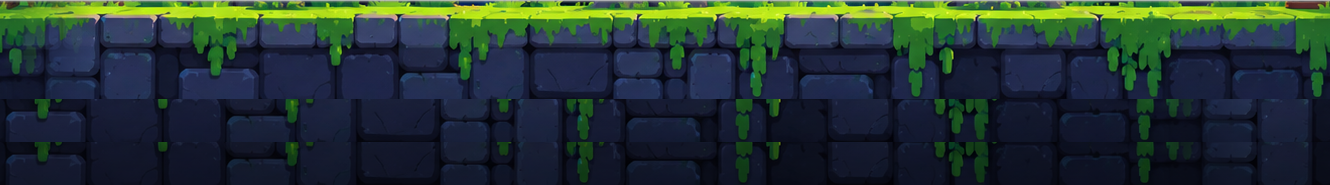
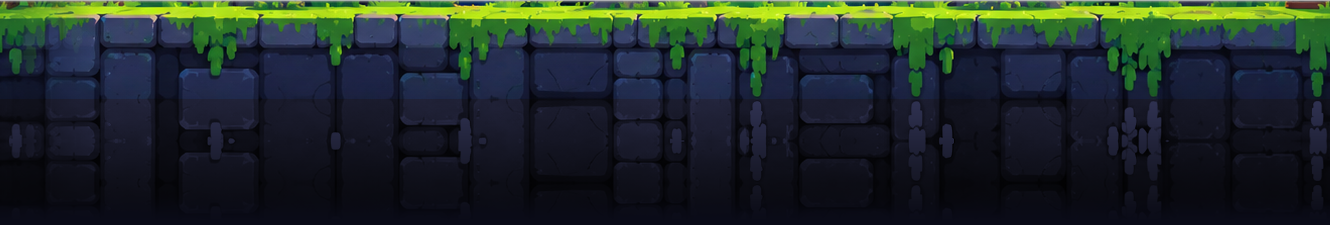
Neues Design: ruhigeres Spielfeld, Ruinen nach hinten, Mauer ohne Kante
- Torbögen, Laternengalgen und Mauerreste stehen jetzt in einer eigenen, langsamer
  mitlaufenden Ebene hinter dem Rasen: abgedunkelt, kleiner, Laternen schwächer, Sockel
  hinter einer dunklen Buschreihe. Sie wirken nicht mehr wie Objekte zum Anfassen.
  Kiste, Fass, Zaun, Pilz und kleine Steine/Kristalle vorn entfallen.
- Deutlich weniger Pflanzen: nur vereinzelte kurze Grasbüschel an der Rasenkante, keine
  Halme an der Vorderkante und auf den Plattformen, Vordergrund-Laub nur ganz außen,
  keine großen Glühwürmchen vor der Kamera, weniger Staubteilchen.
- Mauer: unter dem Bildausschnitt gespiegelte Quaderreihen ohne Moos, die gleichmäßig
  in die Farbe der Tiefe auslaufen – keine harte Kante mehr am unteren Bildrand.

diff --git a/tools/newdesign/build.js b/tools/newdesign/build.js
@@ -386,12 +386,12 @@ async function ground() {
     const X0 = 560, X1 = 1980, Y0 = 694, Y1 = 793, FADE = 90;
     const { data, info } = await sharp(path.join(SRC, F.scene)).removeAlpha().raw().toBuffer({ resolveWithObject: true });
     const SW = info.width;
-    const L = X1 - X0 - FADE, extra = [[750, 793, 0.78], [750, 793, 0.6]];
-    const H = (Y1 - Y0) + extra.reduce((s, e) => s + e[1] - e[0], 0);
-    const W = L;
+    // unter dem Bild geht die Mauer mit wiederholten Quaderreihen weiter (Moos dort zu Stein), und das Ganze
+    // dunkelt nach unten gleichmäßig ab bis in die Farbe der Tiefe: keine sichtbare Kante am unteren Bildrand
+    const L = X1 - X0 - FADE, EXTRA = 42 * 3, DEEP = [10, 11, 24];
+    const H = (Y1 - Y0) + EXTRA, W = L;
     const out = Buffer.alloc(W * H * 4);
     const px = (x, y) => { const i = (y * SW + x) * 3; return [data[i], data[i + 1], data[i + 2]]; };
-    const put = (x, y, c, k) => { const o = (y * W + x) * 4; out[o] = c[0] * k; out[o + 1] = c[1] * k; out[o + 2] = c[2] * k; out[o + 3] = 255; };
     const sample = (x, y) => {
         // die ersten FADE Spalten mischen sich mit dem Ende des Streifens → nahtlos kachelbar
         const a = px(X0 + x, y);
@@ -399,9 +399,30 @@ async function ground() {
         const b = px(X0 + L + x, y), t = x / FADE;
         return [a[0] * t + b[0] * (1 - t), a[1] * t + b[1] * (1 - t), a[2] * t + b[2] * (1 - t)];
     };
-    let row = 0;
-    for (let y = Y0; y < Y1; y++, row++) for (let x = 0; x < W; x++) put(x, row, sample(x, y), 1);
-    for (const [a, b, k] of extra) for (let y = a; y < b; y++, row++) for (let x = 0; x < W; x++) put(x, row, sample((x + 173) % W, y), k * (1 - 0.15 * (y - a) / (b - a)));
+    // unterhalb: alles in Steinfarbe (Moos wird zu Stein, zu helle Stellen gedeckelt)
+    const stone = c => {
+        const l = Math.min(70, 0.3 * c[0] + 0.59 * c[1] + 0.11 * c[2]);
+        return [l * 0.78, l * 0.82, l * 1.35];
+    };
+    const smooth = t => t * t * (3 - 2 * t);
+    for (let row = 0; row < H; row++) {
+        const fromSrc = row < Y1 - Y0;
+        // gespiegelt an der Unterkante des Bildes, dann hin und her: keine Naht zwischen den Wiederholungen
+        const m = row - (Y1 - Y0), t = ((m % 84) + 84) % 84;
+        const sy = fromSrc ? Y0 + row : t < 42 ? Y1 - 1 - t : Y1 - 42 + (t - 42);
+        const shift = 0;
+        // Abdunkeln ab der zweiten Quaderreihe, die letzten Zeilen laufen in DEEP aus
+        const dark = 1 - 0.72 * smooth(Math.max(0, Math.min(1, (row - 50) / (H - 50))));
+        const toDeep = smooth(Math.max(0, (row - (H - 36)) / 36));
+        for (let x = 0; x < W; x++) {
+            let c = sample((x + shift) % W, sy);
+            if (!fromSrc) c = stone(c);
+            const o = (row * W + x) * 4;
+            for (let k = 0; k < 3; k++) out[o + k] = Math.round(c[k] * dark * (1 - toDeep) + DEEP[k] * toDeep);
+            out[o + 3] = 255;
+        }
+    }
+    manifest.groundDeep = DEEP.map(v => +(v / 255).toFixed(4));
     // oberste Pixelreihen weich ausblenden (die Grashalme darüber verdecken die Kante)
     for (let y = 0; y < 3; y++) for (let x = 0; x < W; x++) {
         const o = (y * W + x) * 4, a = [0.35, 0.7, 0.9][y];

diff --git a/SoccerFight/Assets/Scripts/World/WorldEnvironment.cs b/SoccerFight/Assets/Scripts/World/WorldEnvironment.cs
@@ -15,9 +15,9 @@ namespace SoccerFight
     {
         struct Layer { public Transform t; public Vector2 basePos; public float px, py; }
         struct Fog { public SpriteRenderer sr; public float speed, offset, baseX; }
-        struct Firefly { public SpriteRenderer sr; public Vector2 home; public float phase, fx, fy, ax, ay, parallax; }
+        struct Firefly { public SpriteRenderer sr; public Vector2 home; public float phase, fx, fy, ax, ay; }
         struct Blink { public SpriteRenderer sr; public Color color; public float baseA, phase, speed, depth; }
-        struct Lamp { public SpriteRenderer glow, halo; public float seed; }
+        struct Lamp { public SpriteRenderer glow, halo; public float seed, strength; }
 
         readonly List<Layer> layers = new List<Layer>();
         readonly List<Fog> fogs = new List<Fog>();
@@ -29,6 +29,8 @@ namespace SoccerFight
         CameraRig cam;
         System.Random rng;
         float moteTimer;
+        Color propTint = Color.white;   // Ruinenreihe: abgedunkelt
+        float lampStrength = 1f;
 
         public Transform Root => root;
         public PlatformViews Platforms { get; private set; }
@@ -74,7 +76,7 @@ namespace SoccerFight
 
         SpriteRenderer Put(Transform parent, string sprite, Vector2 pos, float scale, int order, bool flip = false, Color? tint = null)
         {
-            var sr = Art.MakeSprite(sprite, parent, DesignArt.Get(sprite), order, DesignArt.SpriteMat, tint ?? Color.white);
+            var sr = Art.MakeSprite(sprite, parent, DesignArt.Get(sprite), order, DesignArt.SpriteMat, tint ?? propTint);
             sr.transform.localPosition = pos;
             sr.transform.localScale = new Vector3(flip ? -scale : scale, scale, 1f);
             return sr;
@@ -177,40 +179,35 @@ namespace SoccerFight
 
         void BuildRuins()
         {
-            var g = Group("Ruins");
-            const float Y = 0.08f;
+            // Rahmenbäume an beiden Arenaenden (weltfest, markieren das Spielfeldende)
+            var trees = Group("Frame Trees");
+            Put(trees, "tree_big", new Vector2(-17.7f, -0.05f), 1.6f, -300);
+            Put(trees, "tree_big", new Vector2(17.9f, -0.05f), 1.6f, -300, true);
 
-            // Rahmenbäume an beiden Arenaenden
-            Put(g, "tree_big", new Vector2(-17.7f, -0.05f), 1.6f, -345);
-            Put(g, "tree_big", new Vector2(17.9f, -0.05f), 1.6f, -345, true);
+            // Torbögen, Laternen und Mauerreste stehen ein Stück hinter dem Rasen: eigene, langsamer
+            // mitlaufende Ebene, im Mondlicht abgedunkelt und kleiner — Kulisse, nichts zum Anfassen
+            var g = AddLayer("Ruin Row", new Vector2(0f, 0.3f), 0.22f, 0.18f);
+            const float Y = 0f;
+            propTint = new Color(0.55f, 0.62f, 0.82f);
+            lampStrength = 0.6f;
+            LampPost(g, "lantern_post_a", new Vector2(-15.2f, Y), 0.75f, false, new Vector2(0.72f, 0.3f));
+            Put(g, "wall_d", new Vector2(-11.8f, Y), 0.65f, -360);
+            ArchWithLamp(g, new Vector2(-7.4f, Y), 0.7f, false);
+            Put(g, "pillar_broken", new Vector2(-4.2f, Y), 0.6f, -360);
+            Crystal(g, "crystal_mid", new Vector2(-3.1f, Y), 0.4f, -358);
+            ArchWithLamp(g, new Vector2(6.5f, Y), 0.7f, true);
+            Put(g, "block_e", new Vector2(9.4f, Y), 0.6f, -358);
+            Put(g, "wall_c", new Vector2(11.8f, Y), 0.65f, -360);
+            LampPost(g, "lantern_post_a", new Vector2(15.2f, Y), 0.75f, true, new Vector2(0.72f, 0.3f));
+            propTint = Color.white;
+            lampStrength = 1f;
 
-            // links: Laternengalgen vor dem Rahmenbaum, Mauerrest, Torbogen mit Laterne zwischen den Plattformen
-            LampPost(g, "lantern_post_a", new Vector2(-15.5f, Y), 1f, false, new Vector2(0.72f, 0.3f));
-            Crystal(g, "crystal_small", new Vector2(-14.3f, Y), 0.55f, -324);
-            Put(g, "wall_d", new Vector2(-11.6f, Y), 0.8f, -330);
-            Put(g, "block_f", new Vector2(-9.7f, Y), 0.85f, -328);
-            ArchWithLamp(g, new Vector2(-7.4f, Y), 0.9f, false);
-            Put(g, "rock_a", new Vector2(-5.5f, Y), 0.75f, -326);
-            Put(g, "pillar_broken", new Vector2(-4.1f, Y), 0.75f, -330);
-            Crystal(g, "crystal_mid", new Vector2(-2.9f, Y), 0.5f, -327);
-            Put(g, "crate", new Vector2(-1.55f, Y), 0.55f, -325);
-            Put(g, "barrel", new Vector2(-0.95f, Y), 0.55f, -324);
-            Put(g, "fence", new Vector2(1.3f, Y), 0.85f, -329);
-            Put(g, "mushroom_blue", new Vector2(2.7f, Y), 0.42f, -325);
-            // rechts: Torbogen mit Laterne, Steine, Mauerrest, Laternengalgen vor dem Rahmenbaum
-            ArchWithLamp(g, new Vector2(6.5f, Y), 0.9f, true);
-            Put(g, "block_e", new Vector2(8.6f, Y), 0.8f, -328);
-            Put(g, "rock_d", new Vector2(10.2f, Y), 0.75f, -326);
-            Put(g, "wall_c", new Vector2(12.1f, Y), 0.85f, -330);
-            Put(g, "wall_a", new Vector2(14.2f, Y), 0.75f, -331);
-            LampPost(g, "lantern_post_a", new Vector2(15.6f, Y), 1f, true, new Vector2(0.72f, 0.3f));
-
-            // Büsche und Farne zwischen den Ruinen
-            var plants = new FoliageLayer();
-            var bushes = DesignArt.Plants("bush_a", "bush_b", "bush_c", "bush_d", "fern", "grass_a");
-            for (float x = -19f; x < 19f; x += Range(1.6f, 3.2f))
-                plants.Add(Pick(bushes), new Vector2(x, Range(0.08f, 0.14f)), Range(0.55f, 0.85f), Color.white, 1f, 0.4f, R() > 0.5f);
-            plants.Build(g, "Ruin Plants", -320, DesignArt.PlantMaterial("SF Design Ruin Plants", 0.8f));
+            // dunkle Buschreihe am Fuß der Ruinen: verdeckt die Sockel, auch wenn die Kamera steigt
+            var bushes = new FoliageLayer();
+            var kinds = DesignArt.Plants("bush_a", "bush_b", "bush_c", "bush_d");
+            for (float x = -24f; x < 24f; x += Range(0.9f, 1.7f))
+                bushes.Add(Pick(kinds), new Vector2(x, Range(-0.35f, -0.1f)), Range(0.8f, 1.15f), new Color(0.26f, 0.4f, 0.48f), 1f, 0f, R() > 0.5f);
+            bushes.Build(g, "Ruin Bushes", -320, DesignArt.PlantMaterial("SF Design Ruin Bushes", 0.5f));
         }
 
         void ArchWithLamp(Transform parent, Vector2 pos, float scale, bool flip)
@@ -223,7 +220,7 @@ namespace SoccerFight
             var lampSprite = Sprite.Create(t, rect, new Vector2(0.48f, 1f), src.pixelsPerUnit, 0, SpriteMeshType.FullRect);
             float archH = arch.sprite.bounds.size.y * scale, lampScale = scale * 0.8f;
             Vector2 hook = pos + new Vector2(0f, archH * 0.66f);
-            var lamp = Art.MakeSprite("Arch Lantern", parent, lampSprite, -331);
+            var lamp = Art.MakeSprite("Arch Lantern", parent, lampSprite, -331, DesignArt.SpriteMat, Color.Lerp(propTint, Color.white, 0.5f));
             lamp.transform.localPosition = hook;
             lamp.transform.localScale = Vector3.one * lampScale;
             AddLamp(parent, hook - new Vector2(0f, t.height * 0.53f / src.pixelsPerUnit * lampScale), 1.25f);
@@ -245,7 +242,7 @@ namespace SoccerFight
             var glow = Art.MakeSprite("Lamp Glow", parent, Art.SoftGlow, -322, Art.SpriteGlowMat, LampColor.WithAlpha(0.35f));
             glow.transform.localPosition = at;
             glow.transform.localScale = Vector3.one * 0.55f * size;
-            lamps.Add(new Lamp { glow = glow, halo = halo, seed = R() * 50f });
+            lamps.Add(new Lamp { glow = glow, halo = halo, seed = R() * 50f, strength = lampStrength });
         }
 
         void Crystal(Transform parent, string sprite, Vector2 pos, float scale, int order)
@@ -265,26 +262,20 @@ namespace SoccerFight
             wall.size = new Vector2(60f, wall.sprite.bounds.size.y);
             wall.transform.localPosition = new Vector3(-30f, 0f, 0f);
             float wallBottom = -wall.sprite.pivot.y / wall.sprite.pixelsPerUnit;
-            var deep = Art.MakeSprite("Deep", ground, DesignArt.Block, -111, DesignArt.SpriteMat, new Color(0.03f, 0.035f, 0.07f));
+            var deep = Art.MakeSprite("Deep", ground, DesignArt.Block, -111, DesignArt.SpriteMat, DesignArt.GroundDeep);
             deep.transform.localPosition = new Vector3(0f, wallBottom - 4f + 0.02f, 0f);
             deep.transform.localScale = new Vector3(60f, 8f, 1f);
 
-            // Gras und Farne an der Hinterkante (hinter den Spielern), ab und zu ein Pilz oder Klee
+            // nur vereinzelte, kurze Grasbüschel an der Hinterkante: das Spielfeld bleibt ruhig und lesbar
             var back = new FoliageLayer();
-            var grass = DesignArt.Plants("grass_b", "grass_c", "grass_d", "grass_e", "grass_f");
-            var extra = DesignArt.Plants("fern", "clover", "grass_a", "mushroom_green");
-            for (float x = -26f; x < 26f; x += Range(0.35f, 0.8f))
+            var grass = DesignArt.Plants("grass_b", "grass_d", "grass_e", "grass_f");
+            var extra = DesignArt.Plants("fern", "grass_a");
+            for (float x = -26f; x < 26f; x += Range(0.9f, 2.2f))
             {
-                bool big = R() < 0.14f;
-                back.Add(big ? Pick(extra) : Pick(grass), new Vector2(x, Range(0.04f, 0.09f)), big ? Range(0.4f, 0.6f) : Range(0.32f, 0.55f), Color.white, 1f, 1f, R() > 0.5f);
+                bool big = R() < 0.12f;
+                back.Add(big ? Pick(extra) : Pick(grass), new Vector2(x, Range(0.05f, 0.09f)), big ? Range(0.32f, 0.42f) : Range(0.24f, 0.36f), Color.white, 1f, 1f, R() > 0.5f);
             }
             back.Build(ground, "Back Grass", -95, DesignArt.PlantMaterial("SF Design Pitch Grass", 1f));
-
-            // ein paar kleine Halme vorn an der Kante
-            var lip = new FoliageLayer();
-            for (float x = -26f; x < 26f; x += Range(0.8f, 2.2f))
-                lip.Add(Pick(grass), new Vector2(x, Range(-0.1f, -0.06f)), Range(0.22f, 0.32f), Color.white, 1f, 0.7f, R() > 0.5f);
-            lip.Build(ground, "Lip Grass", 150, DesignArt.PlantMaterial("SF Design Lip Grass", 1f));
 
             LeftPortal = BuildGoal(ground, -GoalX, 1f);
             RightPortal = BuildGoal(ground, GoalX, -1f);
@@ -323,11 +314,11 @@ namespace SoccerFight
             var fg = AddLayer("Foreground", Vector2.zero, -0.35f, -0.2f);
             var leaves = new FoliageLayer();
             var kinds = DesignArt.Plants("bush_a", "bush_b", "bush_c", "fern");
-            float[] xs = { -26f, -19.5f, -13f, 13f, 19.5f, 26f };
+            float[] xs = { -25f, 25f };   // nur ganz außen, damit nichts vor dem Spielgeschehen hängt
             foreach (float x in xs)
-                for (int k = 0; k < 2; k++)
+                for (int k = 0; k < 1; k++)
                     leaves.Add(Pick(kinds), new Vector2(x + Range(-1.2f, 1.2f), Range(-2.9f, -2.6f)), Range(1.8f, 2.4f),
-                        new Color(0.1f, 0.2f, 0.24f), 1f, 0f, R() > 0.5f, Range(-8f, 8f));
+                        new Color(0.06f, 0.12f, 0.15f), 1f, 0f, R() > 0.5f, Range(-8f, 8f));
             leaves.Build(fg, "Foreground Leaves", 600, DesignArt.PlantMaterial("SF Design Foreground", 0.35f));
         }
 
@@ -335,19 +326,18 @@ namespace SoccerFight
 
         void BuildFireflies()
         {
-            for (int i = 0; i < 38; i++)
+            // nur hinter dem Spielgeschehen, keine großen unscharfen direkt vor der Kamera
+            for (int i = 0; i < 26; i++)
             {
-                bool front = i < 5;
-                var sr = Art.MakeSprite("Firefly", root, Art.SoftGlow, front ? 610 : -300, Art.SpriteGlowMat, FireflyColor.WithAlpha(0f));
-                sr.transform.localScale = Vector3.one * (front ? Range(0.3f, 0.5f) : Range(0.1f, 0.2f));
+                var sr = Art.MakeSprite("Firefly", root, Art.SoftGlow, -300, Art.SpriteGlowMat, FireflyColor.WithAlpha(0f));
+                sr.transform.localScale = Vector3.one * Range(0.1f, 0.2f);
                 fireflies.Add(new Firefly
                 {
                     sr = sr,
-                    home = new Vector2(Range(-20f, 20f), front ? Range(-1.2f, 2.5f) : Range(0.4f, 5.5f)),
+                    home = new Vector2(Range(-20f, 20f), Range(0.4f, 5.5f)),
                     phase = R() * 50f,
                     fx = Range(0.12f, 0.3f), fy = Range(0.15f, 0.35f),
                     ax = Range(0.6f, 1.8f), ay = Range(0.3f, 0.9f),
-                    parallax = front ? -0.25f : 0f
                 });
             }
         }
@@ -425,8 +415,8 @@ namespace SoccerFight
             {
                 var l = lamps[i];
                 float flicker = 0.8f + 0.2f * Mathf.PerlinNoise(time * 3.3f, l.seed) + 0.05f * Mathf.Sin(time * 19f + l.seed);
-                l.glow.color = LampColor.WithAlpha(0.35f * flicker);
-                l.halo.color = LampColor.WithAlpha(0.2f * flicker);
+                l.glow.color = LampColor.WithAlpha(0.35f * flicker * l.strength);
+                l.halo.color = LampColor.WithAlpha(0.2f * flicker * l.strength);
             }
 
             Platforms.Update(dt, time, Wind);
@@ -437,10 +427,9 @@ namespace SoccerFight
                 float t = time + f.phase;
                 Vector2 pos = f.home + new Vector2(Mathf.Sin(t * f.fx * MathUtil.Tau) * f.ax + Mathf.Sin(t * 0.37f) * 0.3f,
                     Mathf.Sin(t * f.fy * MathUtil.Tau + 1.3f) * f.ay);
-                pos.x += c.x * f.parallax;
                 float blink = Mathf.Clamp01(0.35f + 0.65f * Mathf.Sin(t * 1.1f + f.phase * 3f)) * (0.6f + 0.4f * Mathf.PerlinNoise(t * 2f, f.phase));
                 f.sr.transform.localPosition = pos;
-                f.sr.color = FireflyColor.WithAlpha(blink * (f.parallax < 0f ? 0.3f : 0.75f));
+                f.sr.color = FireflyColor.WithAlpha(blink * 0.75f);
             }
 
             // Staub und Pollen im Mondlicht
@@ -448,11 +437,11 @@ namespace SoccerFight
             moteTimer -= dt;
             while (moteTimer <= 0f && fx != null)
             {
-                moteTimer += 0.16f;
+                moteTimer += 0.3f;
                 Rect view = cam.ViewRect;
                 Vector2 p = new Vector2(view.xMin + Random.value * view.width, view.yMin + 1.5f + Random.value * (view.height - 1.5f));
                 Color mc = new Color(0.8f, 0.92f, 1f, 0.45f);
-                fx.Spawn(Random.value > 0.8f ? FxLayer.Front : FxLayer.Back, true, Art.CellDot, p,
+                fx.Spawn(FxLayer.Back, true, Art.CellDot, p,
                     new Vector2(Wind * 0.25f + (Random.value - 0.5f) * 0.12f, 0.05f + Random.value * 0.1f),
                     Random.Range(5f, 9f), Random.Range(0.02f, 0.04f), Random.Range(0.02f, 0.035f), mc, mc, 1.8f, 0f, -0.01f, 0f, 0f, false, true);
             }

diff --git a/SoccerFight/Assets/Scripts/Art/DesignArt.cs b/SoccerFight/Assets/Scripts/Art/DesignArt.cs
@@ -33,7 +33,7 @@ namespace SoccerFight
         {
             public Entry[] sprites;
             public PlantEntry[] plants;
-            public float[] skyTop;
+            public float[] skyTop, groundDeep;
             public int[] plantsSize;
         }
 
@@ -55,6 +55,8 @@ namespace SoccerFight
         public static Material SpriteMat { get; private set; }
         public static Texture2D PlantAtlas { get; private set; }
         public static Color SkyTop { get; private set; } = new Color(0.05f, 0.1f, 0.3f);
+        /// <summary>Farbe, in die die Mauer nach unten ausläuft.</summary>
+        public static Color GroundDeep { get; private set; } = new Color(0.04f, 0.045f, 0.1f);
         /// <summary>Weißes Quadrat (1 × 1 Einheit, Pivot Mitte) für Flächen in Himmels- oder Erdfarbe.</summary>
         public static Sprite Block { get; private set; }
 
@@ -70,6 +72,7 @@ namespace SoccerFight
             if (json == null) { Debug.LogError("[SoccerFight] Resources/NewDesign/design.json fehlt (tools/newdesign/build.js)"); return; }
             var m = JsonUtility.FromJson<Manifest>(json.text);
             if (m.skyTop != null && m.skyTop.Length == 3) SkyTop = new Color(m.skyTop[0], m.skyTop[1], m.skyTop[2]);
+            if (m.groundDeep != null && m.groundDeep.Length == 3) GroundDeep = new Color(m.groundDeep[0], m.groundDeep[1], m.groundDeep[2]);
 
             foreach (var e in m.sprites)
             {

diff --git a/SoccerFight/Assets/Scripts/World/PlatformViews.cs b/SoccerFight/Assets/Scripts/World/PlatformViews.cs
@@ -31,7 +31,6 @@ namespace SoccerFight
         readonly List<Blink> blinks = new List<Blink>();
         readonly List<Speck> specks = new List<Speck>();
         Transform group;
-        Material grassMat;
         System.Random rng = new System.Random(77);
         float speckTimer;
 
@@ -44,7 +43,6 @@ namespace SoccerFight
             DesignArt.Load();
             group = new GameObject("Platforms").transform;
             group.SetParent(parent, false);
-            grassMat = DesignArt.PlantMaterial("SF Design Platform Grass", 1f);
         }
 
         /// <summary>Replace the shown platforms.</summary>
@@ -110,12 +108,6 @@ namespace SoccerFight
                 }
             }
 
-            // ein paar Halme auf der Kante, die sich im Wind und um den Spieler biegen
-            var grass = new FoliageLayer();
-            var kinds = DesignArt.Plants("grass_b", "grass_d", "grass_e", "grass_f");
-            for (float x = p.BaseX0 + 0.15f; x < p.BaseX1 - 0.15f; x += Range(0.35f, 0.8f))
-                grass.Add(Pick(kinds), new Vector2(x, y + Range(0.02f, 0.06f)), Range(0.26f, 0.4f), Color.white, 1f, 1f, R() > 0.5f);
-            if (grass.Count > 0) grass.Build(v.Root, "Grass", -79, grassMat);
             Place(v);
         }
 

diff --git a/README.md b/README.md
@@ -228,10 +228,11 @@ VSync, FPS-Anzeige, Bildschirmwackeln, Leuchten (Bloom), den Farbsaum-Effekt und
   Spieler unten ist. Ball, Schatten, Gras und Rainbow Flick funktionieren auf jeder Ebene.
 - **Die Welt – Mondlicht-Ruinen:** genau nach den Design-Vorlagen. Von hinten nach vorn: Nachthimmel mit funkelnden
   Sternen, die gemalte Kulisse (Vollmond hinter Wolken, Turmruinen, Aquädukte, viele Wasserfälle, Baumkronen), ein
-  dunkler Gürtel aus Bäumen, Ruinen und Wasserfällen im Mondlicht, davor beleuchtete Ruinen direkt hinter dem Rasen
-  (Torbögen mit Laterne, Laternengalgen, Mauerreste, Säulen, Zaun, Kiste und Fass, Kristalle, Pilz), große grüne
-  Rahmenbäume an beiden Arenaenden, die hellgrüne Grasdecke über der moosigen Quadermauer mit Ranken und dunkles Laub im
-  Vordergrund. Jede Ebene läuft unterschiedlich schnell mit der Kamera. Bewegt: Gras, Büsche und Ranken im Wind (und um
+  dunkler Gürtel aus Bäumen, Ruinen und Wasserfällen im Mondlicht, davor eine eigene, langsamer mitlaufende Ruinenreihe
+  (Torbögen mit Laterne, Laternengalgen, Mauerreste, Säule, Kristall) – bewusst abgedunkelt und hinter einer dunklen
+  Buschreihe, damit sie als Kulisse und nicht als Spielobjekt wirkt –, große grüne Rahmenbäume an beiden Arenaenden, die
+  hellgrüne Grasdecke mit nur vereinzelten Grasbüscheln über der moosigen Quadermauer, die nach unten ins Dunkle ausläuft,
+  und dunkles Laub nur ganz außen im Vordergrund. Das Spielfeld selbst bleibt ruhig, damit Spieler und Gegner lesbar sind. Jede Ebene läuft unterschiedlich schnell mit der Kamera. Bewegt: Gras und Büsche im Wind (und um
   Spieler und Ball), flackernde Laternen, pulsierende Kristalle mit fallenden Lichtfunken, atmender Mondschein,
   ziehender Nebel, warme Glühwürmchen. Die Plattformen sind schwebende Grasinseln aus Quadersteinen mit Ranken und
   hängendem Kristall (eine trägt das blaue Fußball-Banner) bzw. Grasplatten auf Säulen; die Grafik wird passend zur
